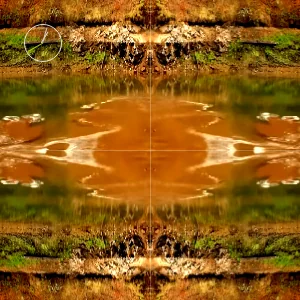
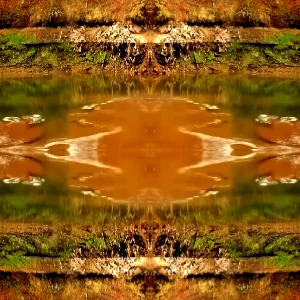
x

diff --git a/src/pages/2026/26-08/26-08-26/Clock.tsx b/src/pages/2026/26-08/26-08-26/Clock.tsx
@@ -1,3 +1,4 @@
+import { useEffect, useState } from 'react';
 import { useClockAngles } from '@/hooks/useClockAngles';
 import { useSecondClock } from '@/utils/hooks';
 import React from 'react';
@@ -15,8 +16,28 @@ const QUADRANT_TRANSFORMS = [
 ] as const;
 
 const ClockComponent = () => {
+  const [visible, setVisible] = useState(false);
   const time = useSecondClock();
   const { hourAngle, minAngle, secAngle } = useClockAngles(time);
+
+  useEffect(() => {
+    let showTimer: ReturnType<typeof setTimeout>;
+    let hideTimer: ReturnType<typeof setTimeout>;
+
+    const tick = () => {
+      showTimer = setTimeout(() => setVisible(true), 2500);
+      hideTimer = setTimeout(() => setVisible(false), 6500);
+    };
+
+    tick();
+    const interval = setInterval(tick, 11000);
+
+    return () => {
+      clearTimeout(showTimer);
+      clearTimeout(hideTimer);
+      clearInterval(interval);
+    };
+  }, []);
 
   return (
     <main className={styles.container}>
@@ -42,7 +63,7 @@ const ClockComponent = () => {
         {time.toLocaleTimeString()}
       </time>
 
-      <div className={styles.analogClock}>
+      <div className={`${styles.analogClock} ${visible ? styles.visible : ''}`}>
         <div className={styles.clockFace}>
           <div className={`${styles.hand} ${styles.hourHand}`} style={{ transform: `rotate(${hourAngle}deg)` }} />
           <div className={`${styles.hand} ${styles.minuteHand}`} style={{ transform: `rotate(${minAngle}deg)` }} />

diff --git a/src/pages/2026/26-08/26-08-26/Clock.module.css b/src/pages/2026/26-08/26-08-26/Clock.module.css
@@ -41,13 +41,15 @@
 .video:nth-child(4) { top: 50%; left: 50%; }
 
 .analogClock {
-  position: absolute;
-  top: 50%;
-  left: 50%;
-  transform: translate(-50%, -50%);
   width: 12vh;
   aspect-ratio: 1;
   z-index: 2;
+  opacity: 0;
+  transition: opacity 1.5s ease-in;
+}
+
+.analogClock.visible {
+  opacity: 1;
 }
 
 .clockFace {
@@ -55,7 +57,6 @@
   height: 100%;
   position: relative;
   border-radius: 50%;
-  border: 1px solid rgba(238, 241, 240, 0.901);
 }
 
 .hand {
@@ -64,27 +65,26 @@
   left: 50%;
   transform-origin: bottom center;
   border-radius: 2px;
+ background: #2e1102;
 }
 
 .hourHand {
-  width: 0.4vh;
-  height: 35%;
+  width: 0.6vh;
+  height: 55%;
   margin-left: -2px;
-  background: #e0e0e0;
+ 
 }
 
 .minuteHand {
-  width: 0.4vh;
-  height: 45%;
+  width: 0.5vh;
+  height: 90%;
   margin-left: -1.5px;
-  background: #cccccc;
 }
 
 .secondHand {
-  width: 0.2vh;
-  height: 50%;
+  width: 0.3vh;
+  height: 90%;
   margin-left: -0.5px;
-  background: #afd007;
 }
 
 .srOnly {
